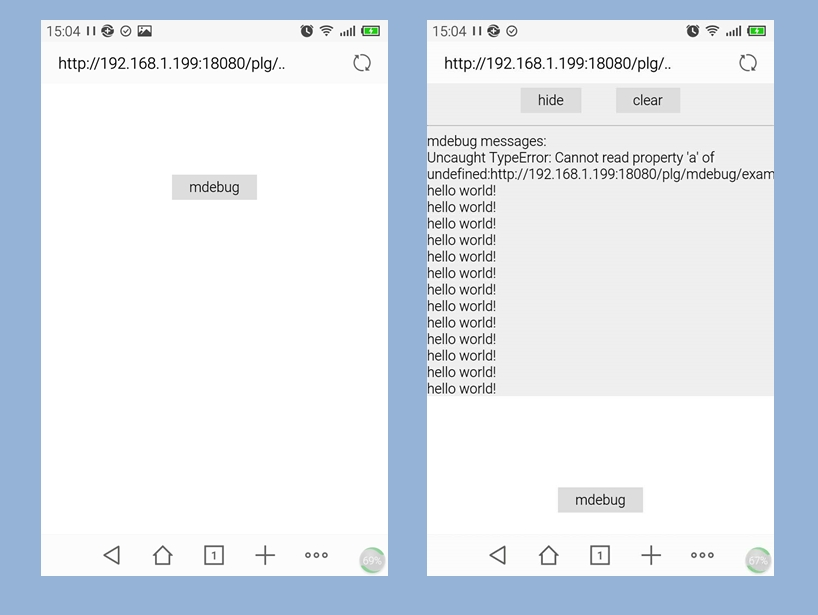
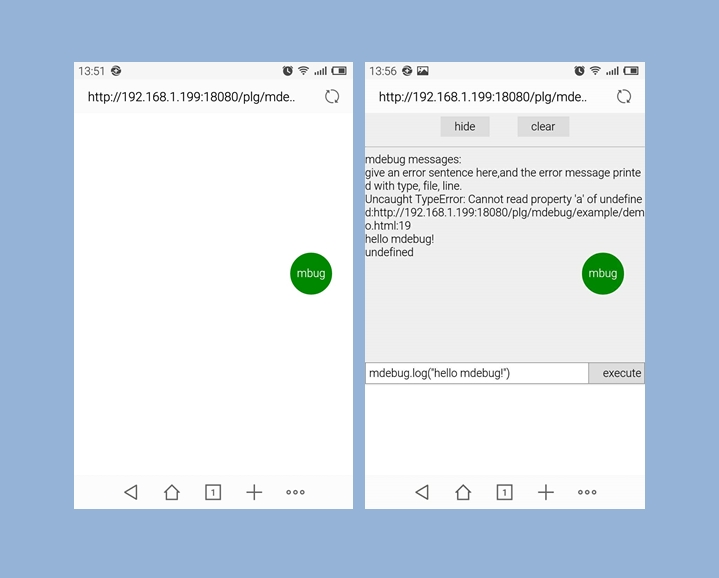
added execute command

Changed region(s): [[0.0306, 0.0311, 0.9485, 0.9654], [0.1836, 0.2803, 0.3366, 0.3426]]

diff --git a/mdebug.js b/mdebug.js
@@ -3,41 +3,11 @@ window.mdebug.mess='mdebug messages:<br/>';
 window.mdebug.mdebug_div=null;
 window.mdebug.mdebug_mess=null;
 
-window.mdebug.create_element=function(str)
-{
-    var tmp_div=document.createElement('div');
-    tmp_div.innerHTML=str;
-    var element=tmp_div.firstChild;
-    while(element!=null && element.nodeType!=1)
-    {
-        element=element.nextSibling;
-    }
-    return element;
-};
-
 window.mdebug.show=function()
 {
-    var mdebug_div=document.getElementById('mdebug_div');
-    if(mdebug_div==null)
+    if(window.mdebug.mdebug_div!=null && window.mdebug.mdebug_div.style.display=='none')
     {
-        var html=''+
-            ' <div id="mdebug_div" style="display: none; width: 100%; height: 360px; background-color: #efefef; overflow: hidden">                                                               ' +
-            '     <div style="margin: auto; display: table; height: 40px">                                                                                                        ' +
-            '         <button onclick="window.mdebug.hide()" style="margin: 5px 20px; padding:5px 20px; border: none; font-size: 16px; background-color: #DDDDDD">hide</button>   ' +
-            '         <button onclick="window.mdebug.clear()" style="margin: 5px 20px; padding:5px 20px; border: none; font-size: 16px; background-color: #DDDDDD">clear</button> ' +
-            '     </div>                                                                                                                                                          ' +
-            '     <hr style="height: 0px; border-top: 0px; border-bottom: 1px solid #BBBBBB" />                                                                                   ' +
-            '     <div id="mdebug_mess" style="width: 100%; height: 300px; overflow: auto"></div>                                                                                 ' +
-            ' </div>                                                                                                                                                              ' ;
-        mdebug_div=window.mdebug.create_element(html);
-        document.body.insertBefore(mdebug_div, document.body.firstChild);
-        window.mdebug.mdebug_div=mdebug_div;
-        window.mdebug.mdebug_mess=mdebug_div.querySelector('#mdebug_mess');
-        window.mdebug.show();
-    }
-    else
-    {
-        mdebug_div.style.display='block';
+        window.mdebug.mdebug_div.style.display='block';
         window.mdebug.mdebug_mess.innerHTML=window.mdebug.mess;
         window.mdebug.mdebug_mess.scrollTop=window.mdebug.mdebug_mess.scrollHeight-window.mdebug.mdebug_mess.clientHeight;
     }
@@ -45,10 +15,9 @@ window.mdebug.show=function()
 
 window.mdebug.hide=function()
 {
-    var mdebug_div=document.getElementById('mdebug_div');
-    if(mdebug_div!=null)
+    if(window.mdebug.mdebug_div!=null && window.mdebug.mdebug_div.style.display=='block')
     {
-        mdebug_div.style.display='none';
+        window.mdebug.mdebug_div.style.display = 'none';
     }
 };
 
@@ -80,5 +49,72 @@ window.mdebug.clear=function()
         window.mdebug.mdebug_mess.scrollTop=window.mdebug.mdebug_mess.scrollHeight-window.mdebug.mdebug_mess.clientHeight;
     }
 };
+
+window.mdebug.execute=function()
+{
+    var cmd= window.mdebug.mdebug_div.querySelector('#mdebug_cmd').value;
+    var mess=eval(cmd);
+    window.mdebug.mess+=mess+'<br/>';
+    if(window.mdebug.mdebug_div!=null && window.mdebug.mdebug_div.style.display=='block')
+    {
+        window.mdebug.mdebug_mess.innerHTML=window.mdebug.mess;
+        window.mdebug.mdebug_mess.scrollTop=window.mdebug.mdebug_mess.scrollHeight-window.mdebug.mdebug_mess.clientHeight;
+    }
+};
+
+window.mdebug.create_element=function(str)
+{
+    var tmp_div=document.createElement('div');
+    tmp_div.innerHTML=str;
+    var element=tmp_div.firstChild;
+    while(element!=null && element.nodeType!=1)
+    {
+        element=element.nextSibling;
+    }
+    return element;
+};
+
+window.mdebug.window_onload=function()
+{
+    var mdebug_html=''+
+        ' <div id="mdebug_div" style="display: none; width: 100%; height: 390px; background-color: #efefef; overflow: hidden">                                                ' +
+        '     <div style="margin: auto; display: table; height: 40px">                                                                                                        ' +
+        '         <button onclick="window.mdebug.hide()" style="margin: 5px 20px; padding:5px 20px; border: none; font-size: 16px; background-color: #DDDDDD">hide</button>   ' +
+        '         <button onclick="window.mdebug.clear()" style="margin: 5px 20px; padding:5px 20px; border: none; font-size: 16px; background-color: #DDDDDD">clear</button> ' +
+        '     </div>                                                                                                                                                          ' +
+        '     <hr style="height: 0px; border-top: 0px; border-bottom: 1px solid #BBBBBB" />                                                                                   ' +
+        '     <div id="mdebug_mess" style="width: 100%; height: 300px; -ms-word-break: break-all; word-break: break-all; overflow: auto"></div>                               ' +
+        '     <div>                                                                                                                     ' +
+        '         <input id="mdebug_cmd" type="text" value=""                                                                           ' +
+        '                style="margin:0px; border: 1px solid #999999; padding:5px 5px; width: 80%; font-size: 16px;                    ' +
+        '                -webkit-box-sizing: border-box;-moz-box-sizing: border-box;box-sizing: border-box; float: left;" />            ' +
+        '         <button onclick="window.mdebug.execute()"                                                                             ' +
+        '                 style="margin: 0px; border: 1px solid #999999; border-left:none; padding:5px 20px; width:20%; font-size: 16px;' +
+        '                 -webkit-box-sizing: border-box;-moz-box-sizing: border-box;box-sizing: border-box; float: left;               ' +
+        '                 background-color: #DDDDDD;">execute</button>                                                                  ' +
+        '     </div>                                                                                                                    ' +
+        ' </div>                                                                                                                                                              ' ;
+    window.mdebug.mdebug_div=window.mdebug.create_element(mdebug_html);
+    window.mdebug.mdebug_mess=window.mdebug.mdebug_div.querySelector('#mdebug_mess');
+    document.body.insertBefore(window.mdebug.mdebug_div, document.body.firstChild);
+
+    var mbug_html=''+
+        ' <div onclick="window.mdebug.show()"                                      ' +
+        '      style="display: table; position: absolute; top: 200px; right: 30px; ' +
+        '             border-radius: 50%; width: 60px; height: 60px;               ' +
+        '             line-height: 60px; text-align: center;                       ' +
+        '             background-color: #008800; cursor: pointer">                 ' +
+        '     <span style="color: #ffffff; font-size: 16px">mbug</span>            ' +
+        ' </div>                                                                   ' ;
+    document.body.insertBefore(window.mdebug.create_element(mbug_html), document.body.firstChild);
+};
+
+if(window.addEventListener){
+    window.addEventListener('load', window.mdebug.window_onload, false);
+}else if(window.attachEvent){
+    window.attachEvent('onload', window.mdebug.window_onload);
+}else{
+    window.onload=window.mdebug.window_onload;
+}
 
 

diff --git a/example/demo.html b/example/demo.html
@@ -14,15 +14,11 @@
     </style>
 </head>
 <body>
-<div style="margin: auto; display: table; padding-top: 100px">
-    <button onclick="window.mdebug.show()" style="margin: 5px 20px; padding:5px 20px; border: none; font-size: 16px;">mdebug</button>
-</div>
 <script type="text/javascript">
+    mdebug.log("give an error sentence here,and the error message printed with type, file, line.");
     var a= a.a;
-</script>
-<script type="text/javascript">
-    mdebug.log("hello world!");
 </script>
 </body>
 </html>
+
 

diff --git a/README.md b/README.md
@@ -3,7 +3,7 @@ a useful debugger for mobile
 
 ## 使用情景
 
-移动端浏览器不方便调试，使用该插件可以快速定位发生错误的位置，输出调试信息
+移动端浏览器不方便调试，使用该插件可以快速定位发生错误的位置，输出调试信息，交互执行js代码。
 
 ## 特色
 
@@ -21,14 +21,13 @@ a useful debugger for mobile
 ## 快速入门
 
 1. 引入脚本\<script type="text/javascript" src="../clipimg.js"\>\</script\>
-2. 显示调试窗口mdebug.show()
 
 ## API详解
 
-1. mdebug.show()
-
-    显示调试窗口
-
-2. mdebug.log()
+1. mdebug.log()
     
     输出调试信息，就像chrome浏览器的cosole.log()一样，只不过这里是输出到我们的调试窗口
+
+## 注意事项
+
+1. 请尽量在其他代码引入之前引入该插件，方便mdebug捕获错误。
